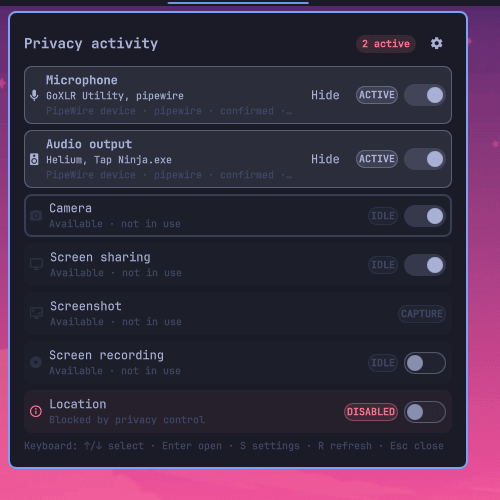
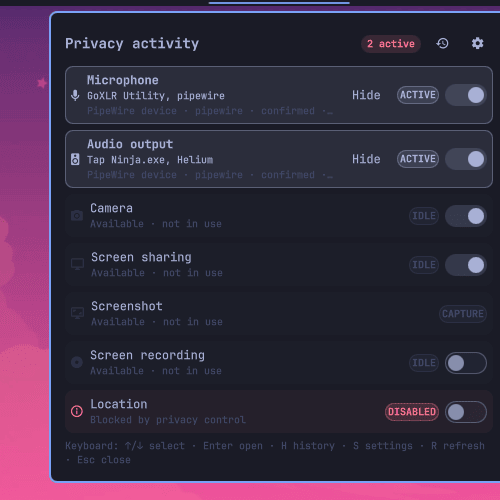
docs(site): refresh complete interface gallery

diff --git a/docs/index.html b/docs/index.html
@@ -862,7 +862,7 @@
             </figure>
             <div class="interface-supporting">
               <figure class="screenshot-card bar-shot">
-                <img src="bar.png" alt="Privacy Devices indicators occupying their exact center-bar footprint" width="141" height="50" loading="lazy" decoding="async">
+                <img src="bar.png" alt="Privacy Devices indicators occupying their exact center-bar footprint" width="182" height="50" loading="lazy" decoding="async">
                 <figcaption>Distinct markers keep active, disabled, verifying, and degraded states visible.</figcaption>
               </figure>
               <figure class="screenshot-card notification-shot">
@@ -871,7 +871,7 @@
               </figure>
             </div>
           </div>
-          <h3 class="gallery-title">Settings</h3>
+          <h3 class="gallery-title">Settings and details</h3>
           <div class="settings-gallery">
             <figure class="screenshot-card">
               <img src="general.png" alt="General settings page" width="500" height="660" loading="lazy" decoding="async">
@@ -892,6 +892,14 @@
             <figure class="screenshot-card">
               <img src="device.png" alt="Individual privacy-device settings page" width="500" height="660" loading="lazy" decoding="async">
               <figcaption>Per-device appearance, backend, diagnostics, and resets.</figcaption>
+            </figure>
+            <figure class="screenshot-card">
+              <img src="history.png" alt="Completed privacy activity history view" width="500" height="660" loading="lazy" decoding="async">
+              <figcaption>Searchable completed activity with duration, source, confidence, and application context.</figcaption>
+            </figure>
+            <figure class="screenshot-card">
+              <img src="history-disabled.png" alt="Activity history disabled state with link to monitoring settings" width="500" height="240" loading="lazy" decoding="async">
+              <figcaption>A direct opt-in path when private local history is disabled.</figcaption>
             </figure>
           </div>
         </div>
@@ -1013,7 +1021,7 @@
             <article class="guide-card"><h3>Appearance</h3><p>Tune bar layout, markers, counts, popup density, labels, colors, and disabled presentation.</p></article>
             <article class="guide-card"><h3>Notifications</h3><p>Choose activity and control alerts, with per-application suppression and the detected application icon when available.</p></article>
             <article class="guide-card"><h3>Enhanced monitoring</h3><p>Optionally inspect same-user open device handles to detect direct V4L2 camera and ALSA microphone access that bypasses ordinary PipeWire streams.</p></article>
-            <article class="guide-card"><h3>Recent activity</h3><p>Opt in to private metadata-only history bounded to seven days or 100 completed sessions. Disabling or clearing it deletes the stored file.</p></article>
+            <article class="guide-card"><h3>Recent activity</h3><p>Opt in to private metadata-only history bounded to seven days or 100 completed sessions, then open it from the clock icon or with H. Search locally by application, device, activity, source, or confidence. Disabling or confirming clear deletes the stored file.</p></article>
             <article class="guide-card"><h3>Audio</h3><p>Prefer <code>pactl</code>, <code>wpctl</code>, or automatic backend selection.</p></article>
             <article class="guide-card"><h3>Capture backends</h3><p>Use Omarchy, Grim, Grim + Satty, Hyprshot, Flameshot, GPU Screen Recorder, wf-recorder, or custom commands.</p></article>
             <article class="guide-card"><h3>Classification</h3><p>Exclude noisy apps and extend camera or screen-share keywords for unusual drivers and capture clients.</p></article>

diff --git a/tests/site.test.js b/tests/site.test.js
@@ -22,8 +22,10 @@ assert.equal((html.match(/data-copy=/g) || []).length, 4);
 assert.deepEqual(pngDimensions("preview.png"), [500, 500]);
 assert.deepEqual(pngDimensions("docs/preview.png"), [500, 500]);
 assert.deepEqual(pngDimensions("docs/appearance.png"), [500, 660]);
-for (const page of ["general", "alerts", "monitoring", "device"])
+for (const page of ["general", "alerts", "monitoring", "device", "history"])
   assert.deepEqual(pngDimensions(`docs/${page}.png`), [500, 660]);
+assert.deepEqual(pngDimensions("docs/history-disabled.png"), [500, 240],
+  "the disabled history state should be cropped to its compact content");
 const notificationDimensions = pngDimensions("docs/notification.png");
 assert.ok(notificationDimensions[0] >= 360 && notificationDimensions[0] <= 600,
   "notification capture must remain readable without excess desktop area");
@@ -33,15 +35,15 @@ const barDimensions = pngDimensions("docs/bar.png");
 assert.equal(barDimensions[1], 50, "bar capture must retain the live horizontal-bar height");
 assert.ok(barDimensions[0] > 0 && barDimensions[0] <= 500, "bar capture must be a tightly bounded live widget footprint");
 assert.equal(new Set(
-  ["general", "appearance", "alerts", "monitoring", "device"]
+  ["general", "appearance", "alerts", "monitoring", "device", "history", "history-disabled"]
     .map((page) => fs.readFileSync(path.join(root, `docs/${page}.png`)).toString("base64"))
-).size, 5, "each settings page must have a distinct capture");
+).size, 7, "each settings and detail state must have a distinct capture");
 assert.equal(
   Buffer.compare(fs.readFileSync(path.join(root, "preview.png")), fs.readFileSync(path.join(root, "docs/preview.png"))),
   0
 );
 assert.match(html, /src="appearance\.png"[^>]+width="500" height="660"/);
-for (const image of ["bar", "notification", "general", "appearance", "alerts", "monitoring", "device"]) {
+for (const image of ["bar", "notification", "general", "appearance", "alerts", "monitoring", "device", "history", "history-disabled"]) {
   assert.match(html, new RegExp(`src="${image}\\.png"`));
   assert.match(fs.readFileSync(path.join(root, "README.md"), "utf8"), new RegExp(`docs/${image}\\.png`));
 }
@@ -58,8 +60,8 @@ assert.match(html, /@media \(max-width: 760px\)[\s\S]*?\.site-header\s*\{\s*posi
   "mobile navigation must not consume the viewport while scrolling");
 assert.equal(source.querySelectorAll("#screenshots .interface-showcase .screenshot-card").length, 3,
   "activity, bar, and notification captures must form the interface showcase");
-assert.equal(source.querySelectorAll("#screenshots .settings-gallery .screenshot-card").length, 5,
-  "settings captures must use a dedicated, consistent gallery");
+assert.equal(source.querySelectorAll("#screenshots .settings-gallery .screenshot-card").length, 7,
+  "settings and detail captures must use a dedicated, consistent gallery");
 assert.match(html, /\.settings-gallery\s*\{[^}]*grid-template-columns:\s*repeat\(3,/s,
   "wide screens must show settings captures in three balanced columns");
 assert.doesNotMatch(html, /measured widget footprint|width varies/i,
@@ -68,7 +70,7 @@ assert.doesNotMatch(html, /official Omarchy (?:Shell )?plugin|official Omarchy P
   "the independent community marketplace must not be described as official");
 assert.match(html, /detected application icon/i,
   "notification guidance must explain app-aware icons");
-for (const image of ["preview", "bar", "notification", "general", "appearance", "alerts", "monitoring", "device"]) {
+for (const image of ["preview", "bar", "notification", "general", "appearance", "alerts", "monitoring", "device", "history", "history-disabled"]) {
   const element = source.querySelector(`#screenshots img[src="${image}.png"]`);
   assert.ok(element, `Pages gallery must showcase ${image}.png`);
   assert.deepEqual(

diff --git a/README.md b/README.md
@@ -31,8 +31,10 @@ Activity notifications use the detected application icon when available:
 | <img src="docs/general.png" alt="General settings page" width="360"> | <img src="docs/appearance.png" alt="Appearance settings page" width="360"> |
 | Alerts | Monitoring |
 | <img src="docs/alerts.png" alt="Alerts settings page" width="360"> | <img src="docs/monitoring.png" alt="Monitoring settings page" width="360"> |
-| Individual device settings | |
-| <img src="docs/device.png" alt="Individual privacy-device settings page" width="360"> | |
+| Individual device settings | Activity history |
+| <img src="docs/device.png" alt="Individual privacy-device settings page" width="360"> | <img src="docs/history.png" alt="Completed privacy activity history view" width="360"> |
+| History disabled | |
+| <img src="docs/history-disabled.png" alt="Activity history disabled state" width="360"> | |
 
 </details>
 
@@ -44,8 +46,8 @@ Activity notifications use the detected application icon when available:
 - Verified mute, recording, camera, location, and screen-sharing controls.
 - Global and per-device appearance, ordering, visibility, backend, and status
   settings.
-- App-aware notifications, private diagnostics, optional bounded history, and
-  versioned settings transfer.
+- App-aware notifications, private diagnostics, searchable optional bounded
+  history, and versioned settings transfer.
 - Keyboard navigation throughout the popup and settings.
 - Persistent observers and bounded background work, with no network telemetry.
 

diff --git a/CHANGELOG.md b/CHANGELOG.md
@@ -9,8 +9,22 @@ maintainer guides that define release and validation procedures.
 
 ### Added
 
+- Add a dedicated, keyboard-accessible history view with clear disabled,
+  loading, and empty states, local search, relative period groups, result
+  count pills, confidence provenance, and confirmed clearing.
 - Show a verified application or service icon in activity and control-result
   notifications, with safe themed fallbacks.
+
+### Fixed
+
+- Establish a silent startup activity baseline so restarting Quickshell does
+  not re-notify sessions that were already using a privacy device.
+- Deduplicate replayed history records in both live and persisted retention.
+- Make screenshot refreshes restart-safe and location-independent, capture both
+  history states, preserve user history and shell settings, and keep variable
+  image dimensions synchronized with the Pages gallery.
+- Discover Quickshell from `PATH` in the runtime harness instead of relying on
+  a developer-specific installation path.
 
 ## [0.4.0] - 2026-08-25
 
